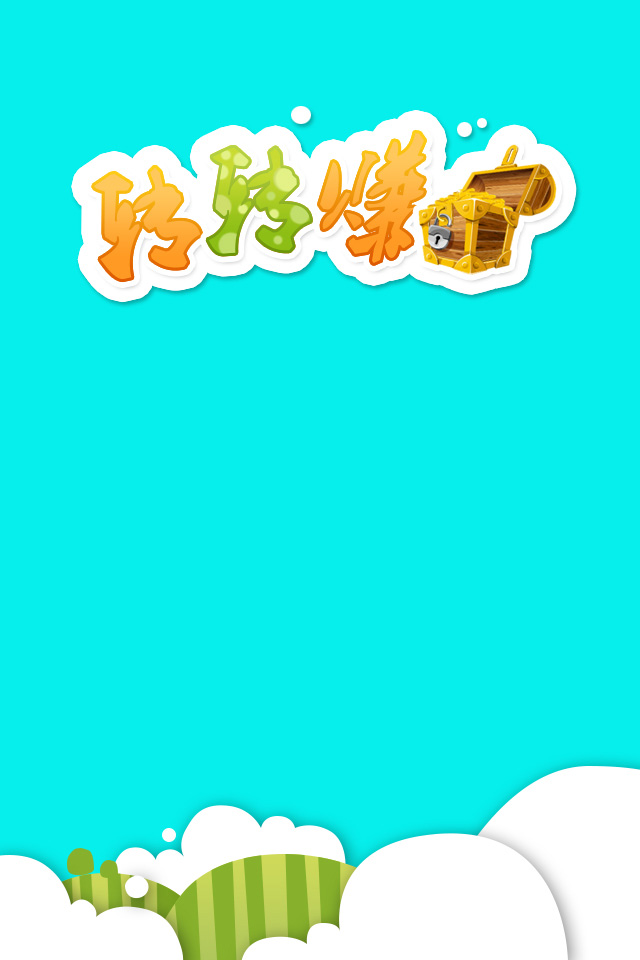
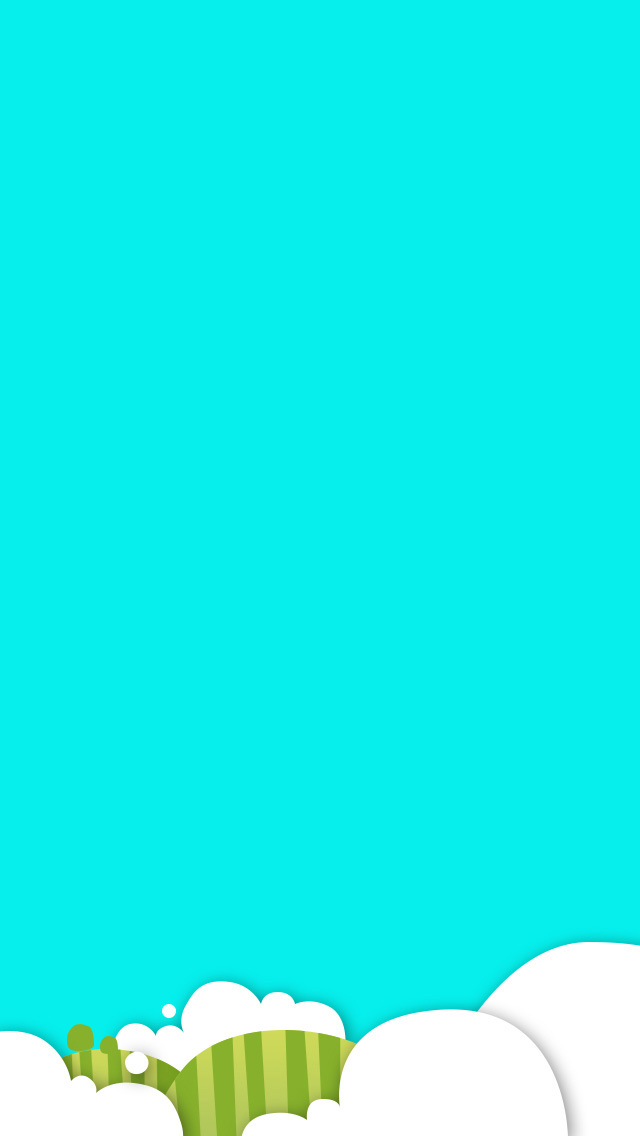
update

Changed region(s): [[0.0938, 0.0938, 0.9062, 0.3438], [0.0, 0.7812, 1.0, 1.0]]

diff --git a/Slot/webapp/index.html b/Slot/webapp/index.html
@@ -73,7 +73,7 @@
             </ul>
             <div class="button_small back-btn">返回</div>
         </section>
-        <section id="tuijianLayer">
+        <section id="tuijianLayer" class="center">
             <div class="panel2">
                 <h1>领取奖励金币</h1>
                 <div style="padding-bottom: 10px;">对方绑定的QQ&nbsp;&nbsp;<input type="text" size="14"/></div>
@@ -86,7 +86,7 @@
             </div>
             <div data-show="share" class="button_small back-btn">返回</div>
         </section>
-        <section id="guanzhuLayer">
+        <section id="guanzhuLayer" class="center">
             <div class="panel2">
                 <h1>微信关注奖励</h1>
                 <div>
@@ -98,7 +98,7 @@
             </div>
             <div data-show="share" class="button_small back-btn">返回</div>
         </section>
-        <section id="5starLayer">
+        <section id="5starLayer" class="center">
             <div class="panel2">
                 <h1>评5星送积分</h1>
                 <div>
@@ -108,8 +108,8 @@
             </div>
             <div data-show="share" class="button_small back-btn">返回</div>
         </section>
-        <section id="installLayer">
-            <div class="panel2" style="top:60px;">
+        <section id="installLayer" class="center">
+            <div class="panel2" style="top:80px;">
                 <h1>快速安装程序</h1>
                 <p>推荐给朋友安装后，记得要到对方的绑定QQ号，每次最多可领取50金币哦，兑换次数无线！让对方打开微信，用扫一扫对准下面的二维码图片，就可以安装了！</p>
                 <div style="text-align: center;padding-top: 5px">
@@ -128,20 +128,22 @@
             <div data-show="share" class="button_small back-btn">返回</div>
         </section>
         <section id="settingsLayer" class="center">
-            <table>
-                <tr>
-                    <td style="width:60px;">Q&nbsp;Q&nbsp;号</td>
-                    <td><input id="qq" type="text"></td>
-                </tr>
-                <tr>
-                    <td>支付宝</td>
-                    <td><input id="zhifubao" type="text" placeholder="注册邮箱"></td>
-                </tr>
-                <tr>
-                    <td>手&nbsp;&nbsp;&nbsp;&nbsp;机</td>
-                    <td><input id="phone" type="text"></td>
-                </tr>
-            </table>
+            <div class="panel2">
+                <table>
+                    <tr>
+                        <td style="width:60px;">Q&nbsp;Q&nbsp;号</td>
+                        <td><input id="qq" type="text"></td>
+                    </tr>
+                    <tr>
+                        <td>支付宝</td>
+                        <td><input id="zhifubao" type="text" placeholder="注册邮箱"></td>
+                    </tr>
+                    <tr>
+                        <td>手&nbsp;&nbsp;&nbsp;&nbsp;机</td>
+                        <td><input id="phone" type="text"></td>
+                    </tr>
+                </table>
+            </div>
             <div id="settings-back-btn" class="button_small back-btn">返回</div>
             <div id="settings-save-btn" class="button_small back-btn">保存</div>
         </section>

diff --git a/Slot/webapp/SlotLayer.jsx b/Slot/webapp/SlotLayer.jsx
@@ -35,16 +35,21 @@ var SlotLayer = View.derive({
         earn.className = 'score';
         var bet = parseInt($('bet').innerHTML.trim());
         if(bet){
-            var me = this;
-            Player.bet(bet, function(bet, winGold, score){
-                me.playing = true;
-                me.winGold = winGold;
-                me.score = score;
-                me.y1T = SLOT_OFFSET - (bet[0] + 6 * (80 + Math.round(Math.random() * 20)) ) * 68.5;
-                me.y2T = SLOT_OFFSET - (bet[1] + 6 * (80 + Math.round(Math.random() * 20)) ) * 68.5;
-                me.y3T = SLOT_OFFSET - (bet[2] + 6 * (80 + Math.round(Math.random() * 20)) ) * 68.5;
-                me._run();
-            });
+            var score = Player.getScore();
+            if(score > bet){
+                var me = this;
+                Player.bet(bet, function(bet, winGold, score){
+                    me.playing = true;
+                    me.winGold = winGold;
+                    me.score = score;
+                    me.y1T = SLOT_OFFSET - (bet[0] + 6 * (80 + Math.round(Math.random() * 20)) ) * 68.5;
+                    me.y2T = SLOT_OFFSET - (bet[1] + 6 * (80 + Math.round(Math.random() * 20)) ) * 68.5;
+                    me.y3T = SLOT_OFFSET - (bet[2] + 6 * (80 + Math.round(Math.random() * 20)) ) * 68.5;
+                    me._run();
+                });
+            } else {
+                Dialog.show('啊哈', '金币不够啦，快去赚一些吧！');
+            }
         } else {
             Dialog.show('啊哈', '亲，您还没有下注哦！');
         }

diff --git a/Slot/webapp/index.css b/Slot/webapp/index.css
@@ -8,11 +8,14 @@
 html, body, #gameContainer, section {
     width: 100%;
     height: 100%;
-    min-height: 480px;
     overflow: hidden;
     color: #2982ba;
     position: absolute;
     font: 400 14px/1 "Helvetica Neue",Helvetica,Arial,sans-serif
+}
+
+body {
+    background: #59eae9 url(bg.jpg) no-repeat 0 bottom;
 }
 
 audio {
@@ -48,7 +51,8 @@ audio {
 }
 
 #gameContainer {
-    background: #fff url(bg.jpg) no-repeat 0 0;
+    top: 50px;
+    background: url(logo.jpg) no-repeat center top;
     background-size: 100%;
 }
 
@@ -75,7 +79,7 @@ section {
     width: 282px;
     height: 232px;
     background-image: url(slot.png);
-    margin: 130px auto 0;
+    margin: 110px auto 0;
 }
 
 .score {
@@ -389,14 +393,10 @@ table {
 }
 
 #settingsLayer table {
-    width: 250px;
+    width: 160px;
     font-size: 18px;
     line-height: 22px;
     color: #333;
-    text-shadow: 0 1px 1px #ccc;
-    background: #fff;
-    box-shadow: 0 2px 5px rgba(0, 0, 0, 0.3);
-    border-radius: 10px;
 }
 
 #settingsLayer table td {
@@ -406,7 +406,7 @@ table {
 }
 
 #settingsLayer table input[type=text] {
-    width: 180px;
+    width: 140px;
 }
 
 input[type=text] {
@@ -447,10 +447,6 @@ input[type=text] {
 .panel2 {
     width: 250px;
     min-height: 280px;
-    position: absolute;
-    top: 100px;
-    left: 50%;
-    margin-left: -140px;
     background: rgba(255, 255, 255, 0.9);
     border-radius: 10px;
     box-shadow: 0 2px 2px rgba(0,0,0,0.3);

diff --git a/Slot/webapp/main.jsx b/Slot/webapp/main.jsx
@@ -8,6 +8,13 @@ document.addEventListener('WebViewJavascriptBridgeReady', function(){
         });
     }
 
+    var container = $('gameContainer');
+    var height = (document.body.clientHeight - 50) + 'px';
+    document.documentElement.style.minHeight = height;
+    document.body.style.minHeight = height;
+    container.style.minHeight = height;
+    container.style.height = height;
+
     Director.addLayer(new WelcomeLayer('welcomeLayer'), 'welcome');
     Director.addLayer(new SlotLayer('slotLayer'), 'slot');
     Director.addLayer(new EarnLayer('earnLayer'), 'earn');
